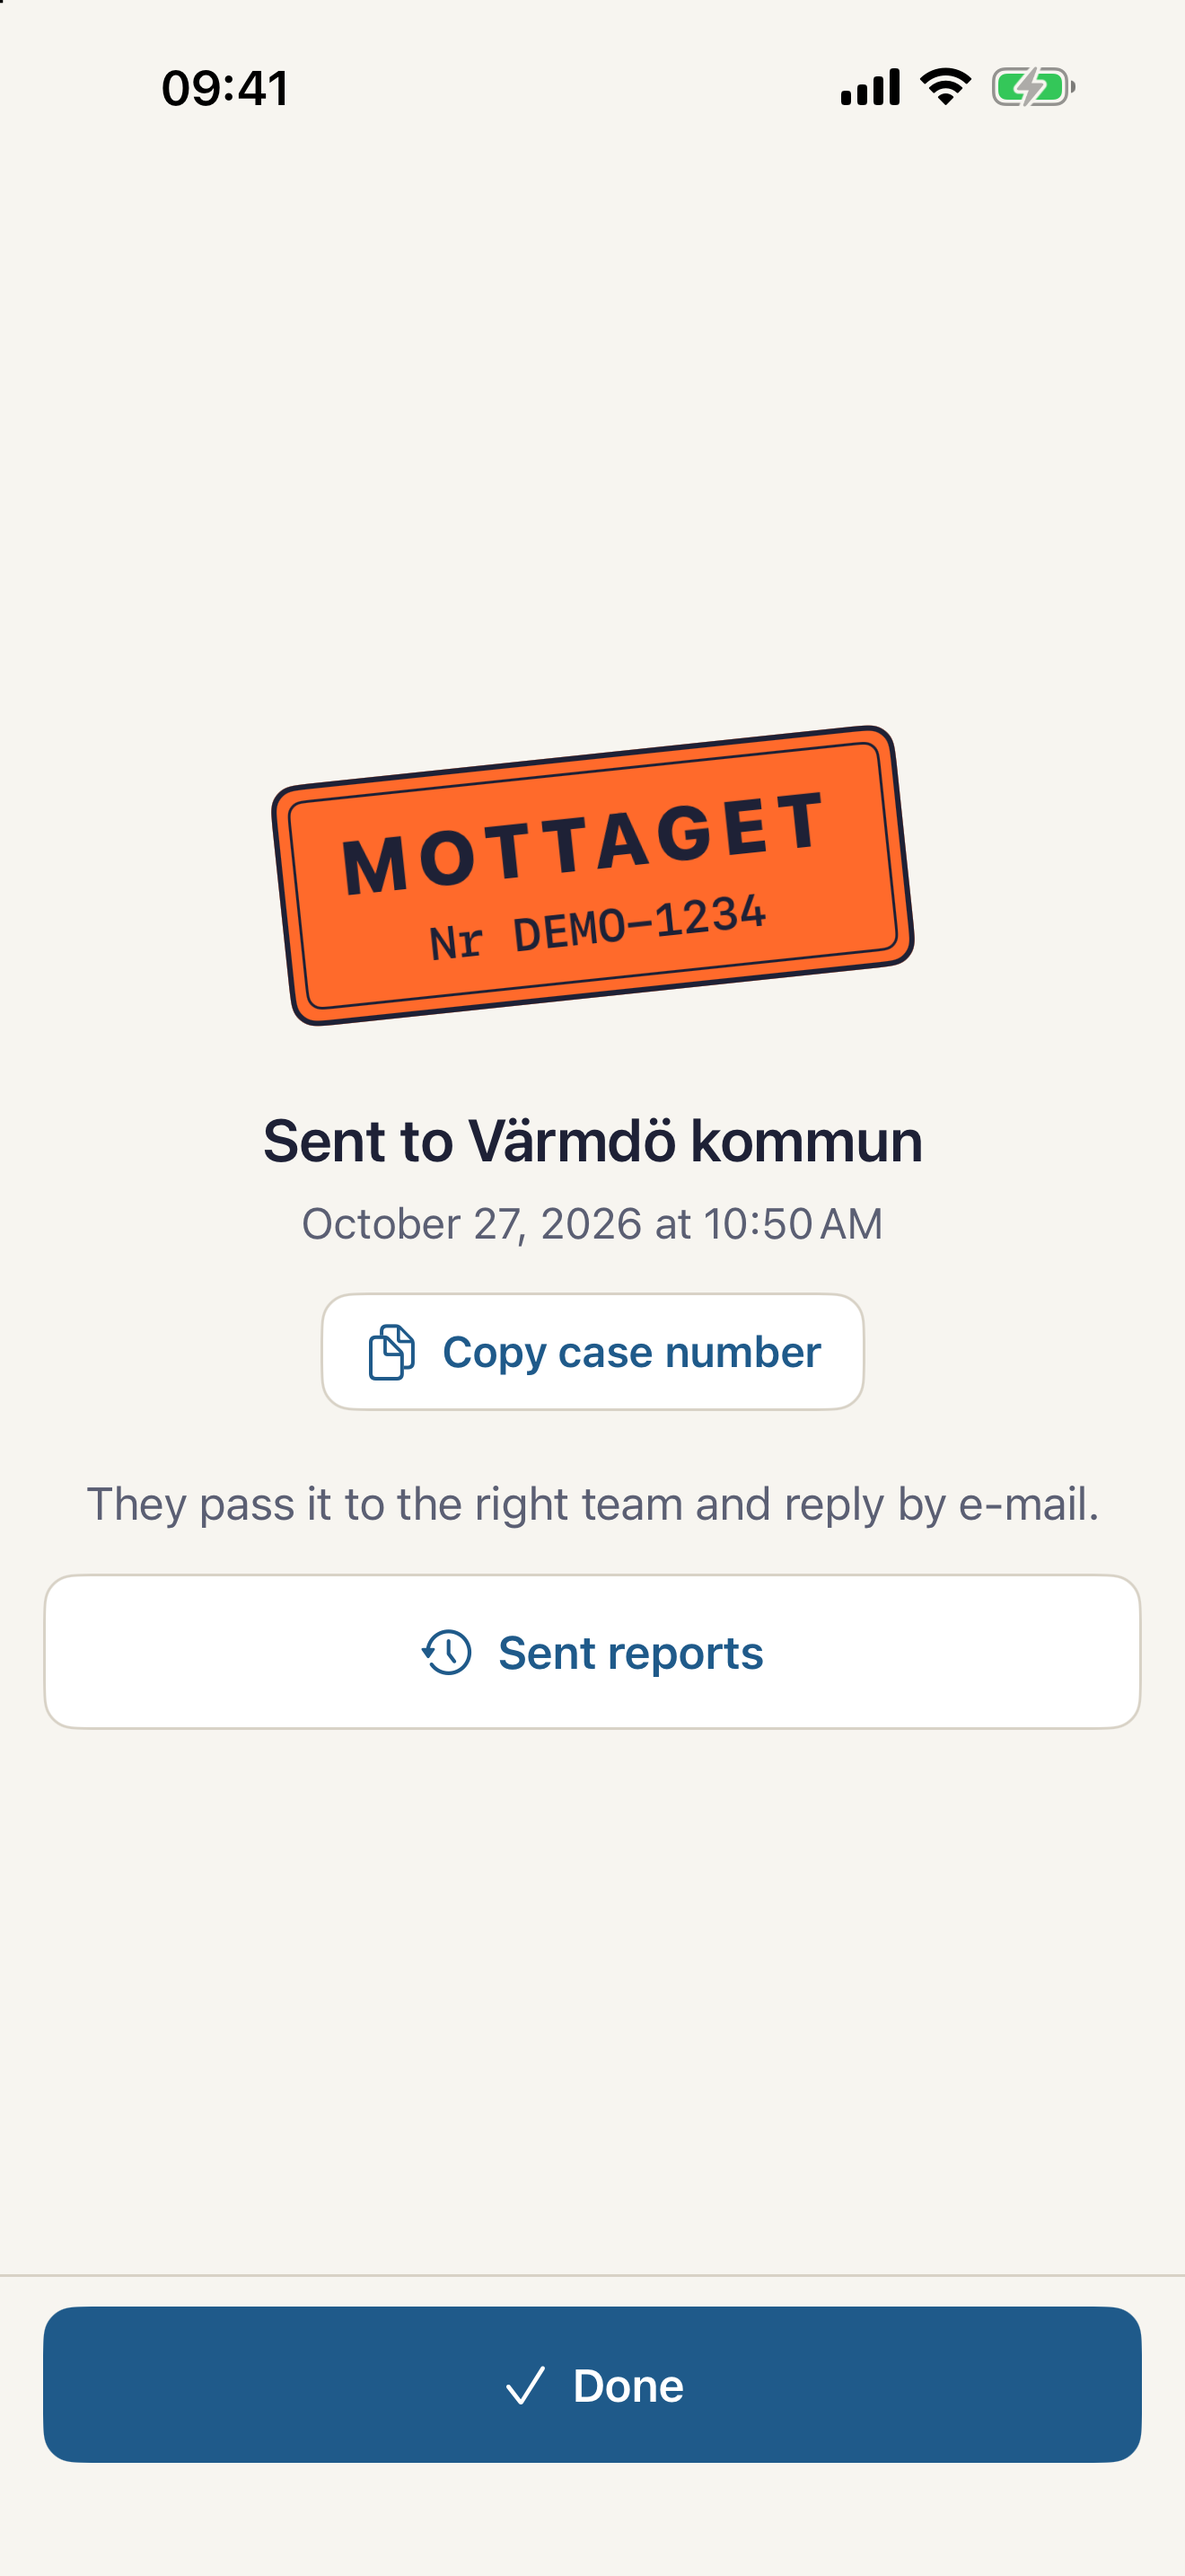
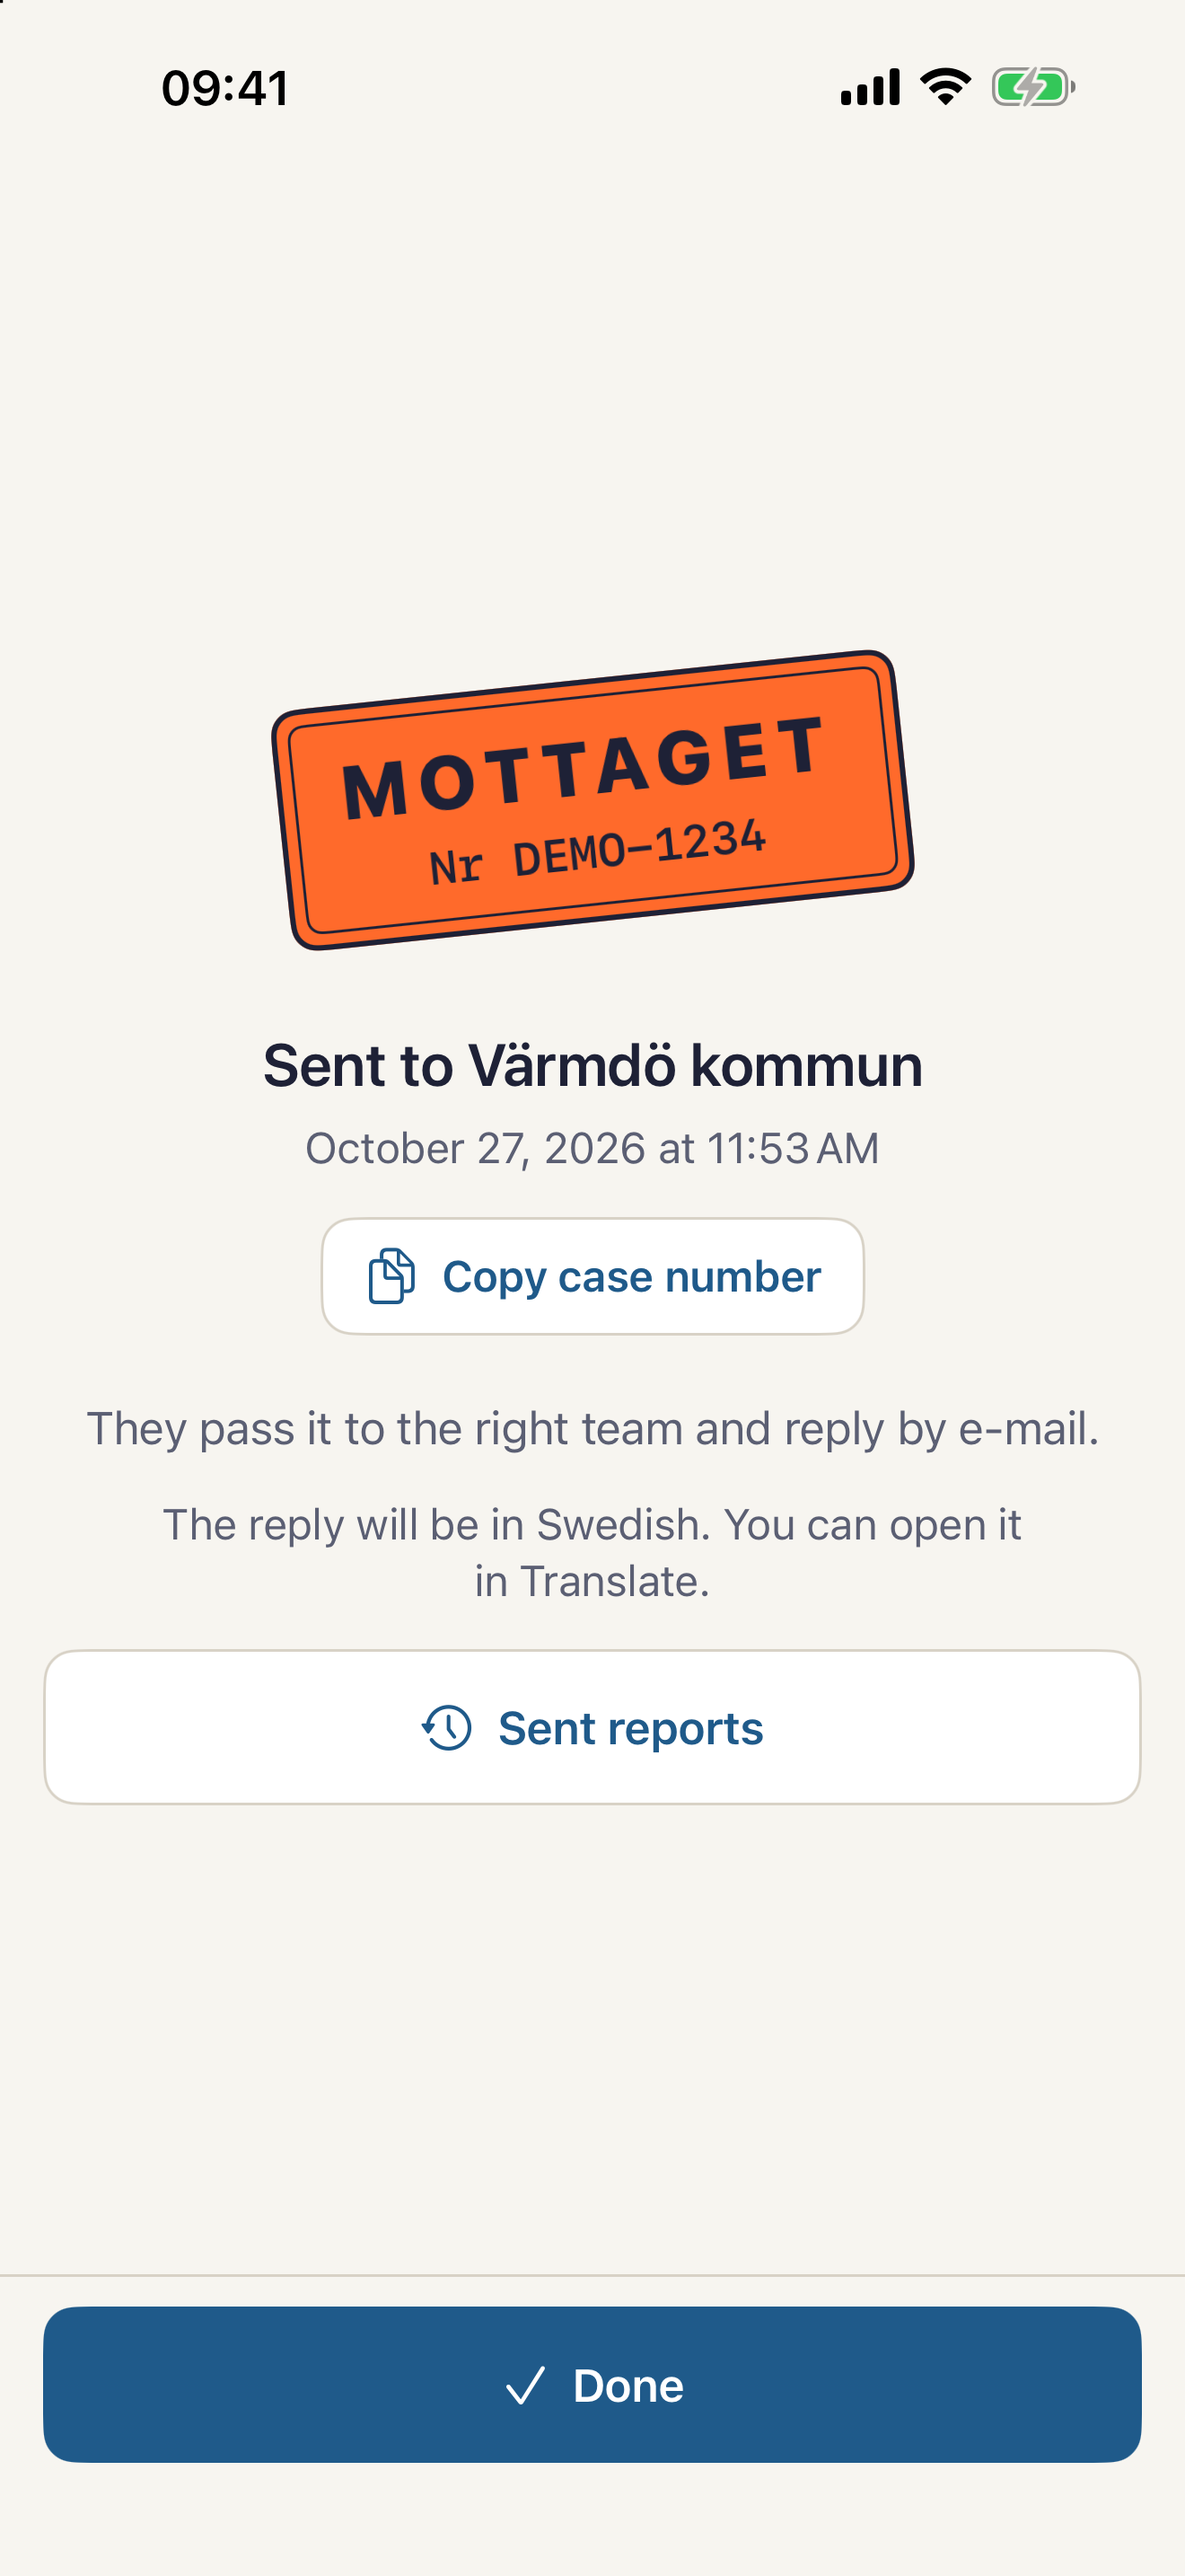
Refresh screenshots for build 4

Changed region(s): [[0.0932, 0.2483, 0.9318, 0.6827], [0.0311, 0.6206, 0.0621, 0.6517]]

diff --git a/docs/store/screenshots/frames.data.js b/docs/store/screenshots/frames.data.js
@@ -35,15 +35,20 @@ window.FRAMES = [
     pops: [],
   },
   {
-    id: "02", screen: "review", purpose: "proof",
-    desire: "Show them exactly what and where, without describing the spot in words.",
+    id: "02", screen: "location", purpose: "proof",
+    desire: "Show them exactly where, without describing the spot in words.",
     objection: "They will never find the place from my description.",
-    proof: "Review: category, map with pin at Gustavsberg centrum, description and the photo, under 'This is what Värmdö kommun receives'.",
-    evidence: ["Fixa/Screens/ReviewScreen.swift", "Fixa/Screens/LocationPickerSheet.swift", "captures/*/review.png"],
+    proof: "Location picker: map with the centre pin and the address under it, plus a big 'Use my current location' button.",
+    evidence: ["Fixa/Screens/LocationPickerSheet.swift", "captures/*/location.png"],
     background: { from: "#F7F5F0", to: "#E1ECE3", glow: "#CFE3D3" },
-    headline: { "sv": "Ta en bild, sätt nålen", "en-US": "Snap a photo, drop a pin" },
-    subline: { "sv": "Du ser precis vad kommunen får.", "en-US": "See exactly what the municipality gets." },
-    pops: [],
+    headline: { "sv": "Sätt nålen på kartan", "en-US": "Drop a pin on the map" },
+    subline: { "sv": "Eller tryck på Använd min nuvarande plats.", "en-US": "Or just tap Use my current location." },
+    // Button outline measured on the capture: x 48..1272, y 616..788 (both locales).
+    pops: [{
+      src: "location",
+      crop: { "sv": { x: 48, y: 616, w: 1224, h: 172 }, "en-US": { x: 48, y: 616, w: 1224, h: 172 } },
+      scale: 0.94, radius: 30, rotate: 0,
+    }],
   },
   {
     id: "03", screen: "receipt", purpose: "differentiator",
@@ -54,47 +59,41 @@ window.FRAMES = [
     background: { from: "#F7F5F0", to: "#F4E3D5", glow: "#F2D3BE" },
     headline: { "sv": "Ärendenummer direkt", "en-US": "Your case number, right away" },
     subline: { "sv": "Det sparas i appen, så du kan följa upp.", "en-US": "It stays in the app so you can follow up." },
-    // Stamp measured by colour bbox (orange 705x322 at 308,781 sv / 308,814 en) plus padding.
+    // Stamp measured by colour bbox (orange 705x322 at 308,781 sv / 308,730 en) plus outline padding.
     pops: [{
       src: "receipt",
-      crop: { "sv": { x: 270, y: 751, w: 780, h: 382 }, "en-US": { x: 270, y: 784, w: 780, h: 382 } },
-      scale: 1.36, center: { x: 660, y: 1340 }, radius: 44, rotate: 0,
+      crop: { "sv": { x: 280, y: 766, w: 760, h: 352 }, "en-US": { x: 280, y: 715, w: 760, h: 352 } },
+      scale: 1.15, radius: 44, rotate: 0,
     }],
   },
   {
-    id: "04", screen: "profile", purpose: "objection: account and privacy",
+    id: "04", screen: "privacy", purpose: "objection: account and privacy",
     desire: "Report without signing up or handing over my details.",
     objection: "Another app that wants an account and my data.",
-    proof: "Profile: 'Optional. Only used when you ask for a reply. Saved on this phone.'",
-    evidence: ["Fixa/Screens/ProfileScreen.swift:21", "Fixa/Screens/AboutScreen.swift:20 no account, no server"],
+    proof: "'What Fixa stores': every item kept on this phone until you delete it; 'Fixa has no account, server or statistics.'",
+    evidence: ["Fixa/Screens/PrivacyScreen (FixaScreen privacy)", "Fixa/Screens/SettingsScreen.swift:154-168 Delete all data"],
     background: { from: "#F7F5F0", to: "#E4E7F0", glow: "#D3D9EA" },
     headline: { "sv": "Inget konto behövs", "en-US": "No account needed" },
     subline: {
-      "sv": "Uppgifterna stannar i telefonen. Fyll i dem bara om du vill ha svar.",
-      "en-US": "Your details stay on your phone. Add them only if you want a reply.",
+      "sv": "Dina uppgifter stannar i telefonen. Radera dem när du vill.",
+      "en-US": "Your details stay on your phone. Delete them anytime.",
     },
-    // Caption block under the nav bar (text rows 380..524, both locales two lines).
+    // "No account" row inside its card, measured: card top 1594, row separator 1893 (sv) / 1833 (en).
     pops: [{
-      src: "profile",
-      crop: { "sv": { x: 24, y: 362, w: 1272, h: 182 }, "en-US": { x: 24, y: 362, w: 1272, h: 182 } },
-      scale: 0.9, center: { x: 660, y: 2330 }, radius: 40, rotate: 0,
+      src: "privacy",
+      crop: { "sv": { x: 48, y: 1594, w: 1224, h: 290 }, "en-US": { x: 48, y: 1594, w: 1224, h: 230 } },
+      scale: 0.94, radius: 40, rotate: 0,
     }],
   },
   {
-    id: "05", screen: "about", purpose: "objection: trust",
-    desire: "Trust who is behind it.",
-    objection: "Is this official? Who made it and what do they do with my report?",
-    proof: "About: 'Open source (EUPL-1.2) on GitHub', 'No account, no server', 'Independent app, not part of Värmdö kommun.' App icon.",
-    evidence: ["Fixa/Screens/AboutScreen.swift:15-24", "docs/store/metadata.json description: 'Jag bor själv i Värmdö'"],
+    id: "05", screen: "language", purpose: "objection: will it work for me",
+    desire: "Use it in the language I read best.",
+    objection: "My Swedish is not good enough for a municipal form.",
+    proof: "Language screen: English, Svenska, Suomi, العربية, Українська, Polski; switches immediately.",
+    evidence: ["Fixa/Screens/SettingsLanguageScreen.swift:32 'buttons and texts change now'", "captures/*/language.png"],
     background: { from: "#F7F5F0", to: "#EFE6D8", glow: "#E6D6BF" },
-    headline: { "sv": "Fristående och öppen källkod", "en-US": "Independent and open source" },
-    subline: { "sv": "Byggd av en invånare i Värmdö. Inte kommunens app.", "en-US": "Built by a Värmdö resident. Not the municipality's app." },
-    // White card measured by pixel scan: x 51..1268, y 375..993 (sv) / 375..932 (en).
-    pops: [{
-      src: "about",
-      crop: { "sv": { x: 51, y: 375, w: 1218, h: 619 }, "en-US": { x: 51, y: 375, w: 1218, h: 558 } },
-      scale: 0.95, center: { x: 660, y: 1500 }, radius: 46, rotate: 0,
-    }],
-    icon: { src: "../../../Fixa/Resources/Assets.xcassets/AppIcon.appiconset/AppIcon.png", size: 300, center: { x: 660, y: 2180 } },
+    headline: { "sv": "Fixa på sex språk", "en-US": "Fixa in six languages" },
+    subline: { "sv": "Byt språk direkt i appen.", "en-US": "Switch language right in the app." },
+    pops: [],
   },
 ];

diff --git a/docs/store/screenshots/frames.html b/docs/store/screenshots/frames.html
@@ -25,7 +25,7 @@
   --headline-line: 1.06;
   --headline-weight: 700;
   --headline-tracking: -0.022em;
-  --subline-top: 446px;
+  --subline-gap: 30px;
   --subline-size: 50px;
   --subline-line: 1.24;
   --subline-weight: 500;
@@ -43,16 +43,18 @@ body { font-family: -apple-system, "SF Pro Display", system-ui, sans-serif; -web
 .frame > * { position: absolute; }
 .bg { inset: 0; z-index: 0; }
 
+.copy {
+  left: var(--copy-x); top: var(--headline-top); width: var(--copy-w); z-index: 3;
+  display: flex; flex-direction: column; gap: var(--subline-gap);
+}
 .headline {
-  left: var(--copy-x); top: var(--headline-top); width: var(--copy-w);
   font-size: var(--headline-size); line-height: var(--headline-line);
   font-weight: var(--headline-weight); letter-spacing: var(--headline-tracking);
-  color: var(--ink); text-wrap: balance; hyphens: manual; z-index: 3;
+  color: var(--ink); text-wrap: balance; hyphens: manual;
 }
 .subline {
-  left: var(--copy-x); top: var(--subline-top); width: var(--copy-w);
   font-size: var(--subline-size); line-height: var(--subline-line); font-weight: var(--subline-weight);
-  color: var(--ink-2); text-wrap: balance; z-index: 3;
+  color: var(--ink-2); text-wrap: balance;
 }
 .device, .pop {
   overflow: hidden; background: var(--paper);
@@ -61,7 +63,6 @@ body { font-family: -apple-system, "SF Pro Display", system-ui, sans-serif; -web
 .device { box-shadow: var(--device-shadow); z-index: 2; }
 .pop { box-shadow: var(--pop-shadow); z-index: 4; }
 .device img, .pop img { position: absolute; display: block; }
-.icon { z-index: 4; border-radius: 22.4%; box-shadow: var(--pop-shadow); outline: 2px solid var(--hairline); outline-offset: -1px; }
 
 .contact { position: relative; background: #E9E5DC; }
 .contact img { position: absolute; display: block; }
@@ -128,21 +129,22 @@ async function renderFrame(locale, id) {
     const c = p.crop[locale];
     if (!c) { fail(`pop ${p.src} has no crop for ${locale}`); return ""; }
     const w = Math.round(c.w * p.scale), h = Math.round(c.h * p.scale);
-    const left = Math.round(p.center.x - w / 2), top = Math.round(p.center.y - h / 2);
+    // Default: magnified in place, centred over the element's own spot on the device.
+    const at = p.center || { x: D.x + (c.x + c.w / 2) * s, y: D.y + (c.y + c.h / 2) * s };
+    const left = Math.round(at.x - w / 2), top = Math.round(at.y - h / 2);
     return `<div class="pop" data-role="artwork" style="left:${left}px;top:${top}px;width:${w}px;height:${h}px;border-radius:${p.radius}px;transform:rotate(${p.rotate}deg)">
       <img alt="" src="${capture(locale, p.src)}" style="left:${-c.x * p.scale}px;top:${-c.y * p.scale}px;width:${cap.width * p.scale}px;height:${cap.height * p.scale}px"></div>`;
   }).join("");
-  const icon = f.icon ? `<img class="icon" data-role="artwork" alt="" src="${f.icon.src}" style="left:${f.icon.center.x - f.icon.size / 2}px;top:${f.icon.center.y - f.icon.size / 2}px;width:${f.icon.size}px;height:${f.icon.size}px">` : "";
 
   document.documentElement.lang = locale;
   const frame = document.createElement("div");
   frame.className = "frame";
   frame.innerHTML = `${background(f.background)}
-    <h1 class="headline" data-role="headline">${esc(head || "")}</h1>
-    ${sub ? `<p class="subline" data-role="bullet">${esc(sub)}</p>` : ""}
+    <div class="copy"><h1 class="headline" data-role="headline">${esc(head || "")}</h1>
+    ${sub ? `<p class="subline" data-role="bullet">${esc(sub)}</p>` : ""}</div>
     <div class="device" data-role="app-capture" style="left:${D.x}px;top:${D.y}px;width:${D.w}px;height:${dh}px;border-radius:${D.radius}px">
       <img alt="" src="${capture(locale, f.screen)}" style="left:0;top:0;width:${D.w}px;height:${dh}px"></div>
-    ${pops}${icon}`;
+    ${pops}`;
   document.body.appendChild(frame);
   await settle([...frame.querySelectorAll("img")]);
 
@@ -175,7 +177,7 @@ async function renderFrame(locale, id) {
   }
   if (copyBottom > db.top - 24) fail(`copy (${Math.round(copyBottom)}) collides with device (${Math.round(db.top)})`);
   if (db.left < sa.left || db.right > W - sa.right || db.bottom > H - sa.bottom) fail("device outside safe area");
-  for (const p of frame.querySelectorAll(".pop, .icon")) {
+  for (const p of frame.querySelectorAll(".pop")) {
     const b = p.getBoundingClientRect();
     if (b.left < sa.left || b.right > W - sa.right || b.bottom > H - sa.bottom) fail(`pop outside safe area (${Math.round(b.left)},${Math.round(b.right)},${Math.round(b.bottom)})`);
     if (b.top < copyBottom + 24) fail("pop collides with copy");
